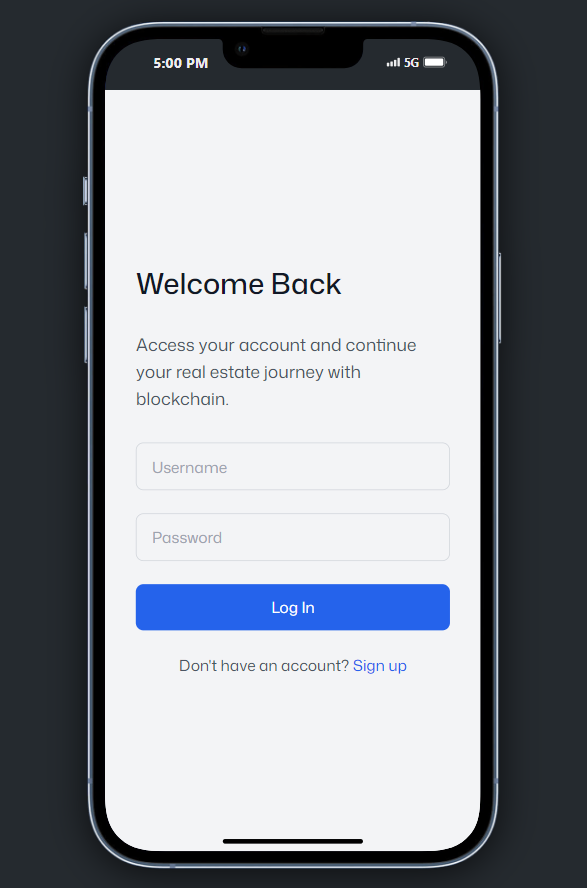
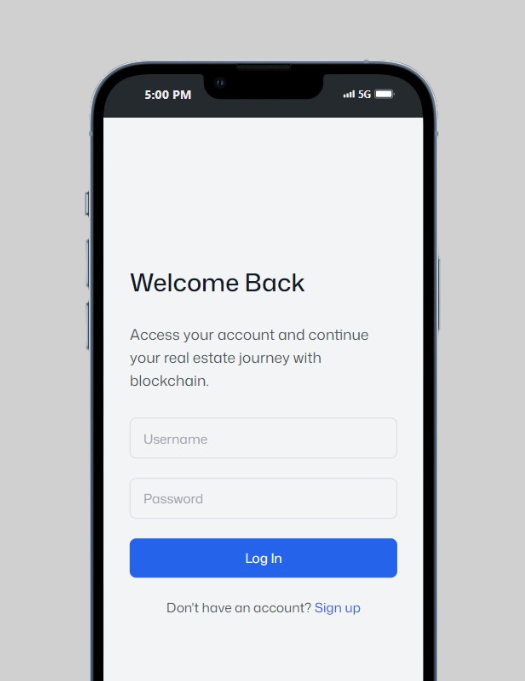
ui elements added howpage

diff --git a/client/src/routes/howPage/HowPage.jsx b/client/src/routes/howPage/HowPage.jsx
@@ -153,12 +153,14 @@ const HowItWorks = () => {
               Connect your wallet →
             </a>
           </div>
-          <div className="section-image h-[400px] md:h-[500px]">
-            <img
-              src="/mobile-login.png"
-              alt="Connect portfolio"
-              className="w-full h-full object-cover rounded-xl"
-            />
+          <div className="section-image flex justify-center items-center">
+            <div className="max-w-[400px] w-full">
+              <img
+                src="/mobile-login.png"
+                alt="Connect portfolio"
+                className="w-full h-auto rounded-lg"
+              />
+            </div>
           </div>
         </div>
 
